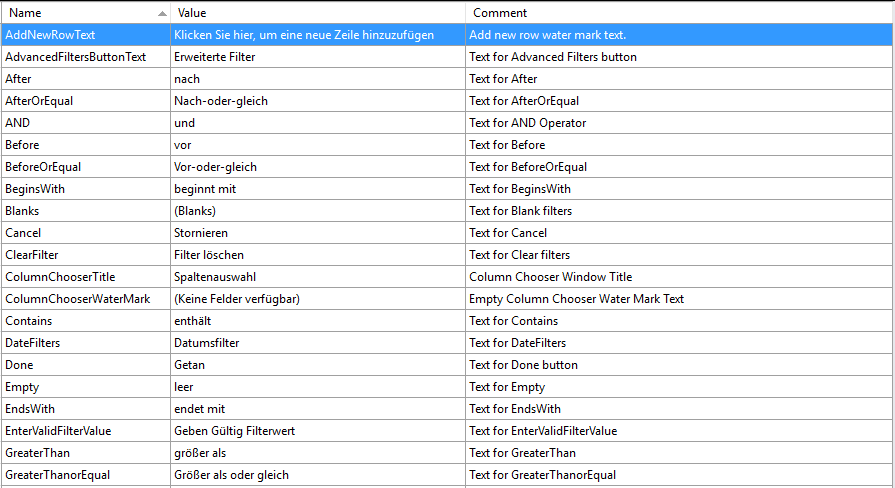
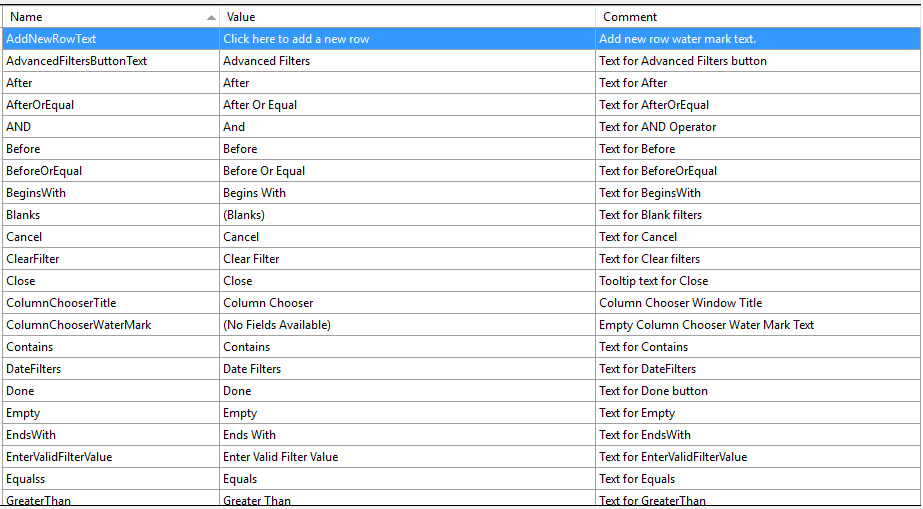
Coded UI extension and localization resource file updated

Changed region(s): [[0.0, 0.0, 1.0, 1.0]]

diff --git a/wpf/SfDataGrid/Localization.md b/wpf/SfDataGrid/Localization.md
@@ -29,7 +29,7 @@ public MainWindow()
 To localize the SfDataGrid based on `CurrentUICulture` using resource files, follow the below steps. 
 
 1.Create new folder and named as **Resources** in your application. 
-2.Add the default resource file of SfDataGrid into **Resources** folder. You can download the Syncfusion.SfGrid.WPF.resx [here](http://www.syncfusion.com/downloads/support/directtrac/general/ze/Resource1113161640.zip).
+2.Add the default resource file of SfDataGrid into **Resources** folder. You can download the Syncfusion.SfGrid.WPF.resx [here](http://www.syncfusion.com/downloads/support/directtrac/general/ze/Resource-1826981720.zip).
 
 ![](Localization_images/Localization_img1.png)
 
@@ -70,13 +70,13 @@ public MainWindow()
 
 ## Editing default culture resource
 
-You can edit default resource file by adding it to **Resources** folder of your application where SfDataGrid reads the static texts from here. You can download the default resource file from [here](http://www.syncfusion.com/downloads/support/directtrac/general/ze/Resource1113161640.zip).
+You can edit default resource file by adding it to **Resources** folder of your application where SfDataGrid reads the static texts from here. You can download the default resource file from [here](http://www.syncfusion.com/downloads/support/directtrac/general/ze/Resource-1826981720.zip).
 
 ![](Localization_images/Localization_img6.png)
 
 Now, change the Name/Value pair in Resource Designer of **Syncfusion.SfGrid.WPF.resx** file.
 
-![](Localization_images/Localization_img7.png)
+![](Localization_images/Localization_img4.png)
 
 
 ![](Localization_images/Localization_img8.png)

diff --git a/wpf/SfDataGrid/UI-Automation.md b/wpf/SfDataGrid/UI-Automation.md
@@ -50,7 +50,7 @@ Coded UI Test Builder generates code from recorded session and custom class is i
 
 Coded UI provides support only in Visual Studio Ultimate and Visual Studio Premium. For more information about the platforms and configurations that are supported by coded UI tests, refer this [link](https://msdn.microsoft.com/en-us/library/dd380742.aspx).
 
-To test SfDataGrid with CUITs, build the Extension Project and place it in the mentioned location. You can get the Extension Project of SfDataGrid from [this](http://www.syncfusion.com/downloads/support/directtrac/general/ze/Syncfusion.VisualStudion.Extension.WPF1744834510) location.
+To test SfDataGrid with CUITs, build the Extension Project and place it in the mentioned location. You can get the Extension Project of SfDataGrid from [this](http://www.syncfusion.com/downloads/support/directtrac/general/ze/Syncfusion.VisualStudion.Extension.WPF-1315333566.zip) location.
 
 1. Open the Extension Project and build it.
 2. You can get the Syncfusion.VisualStudio.TestTools.UITest.SfGridExtension.dll from bin folder. 
